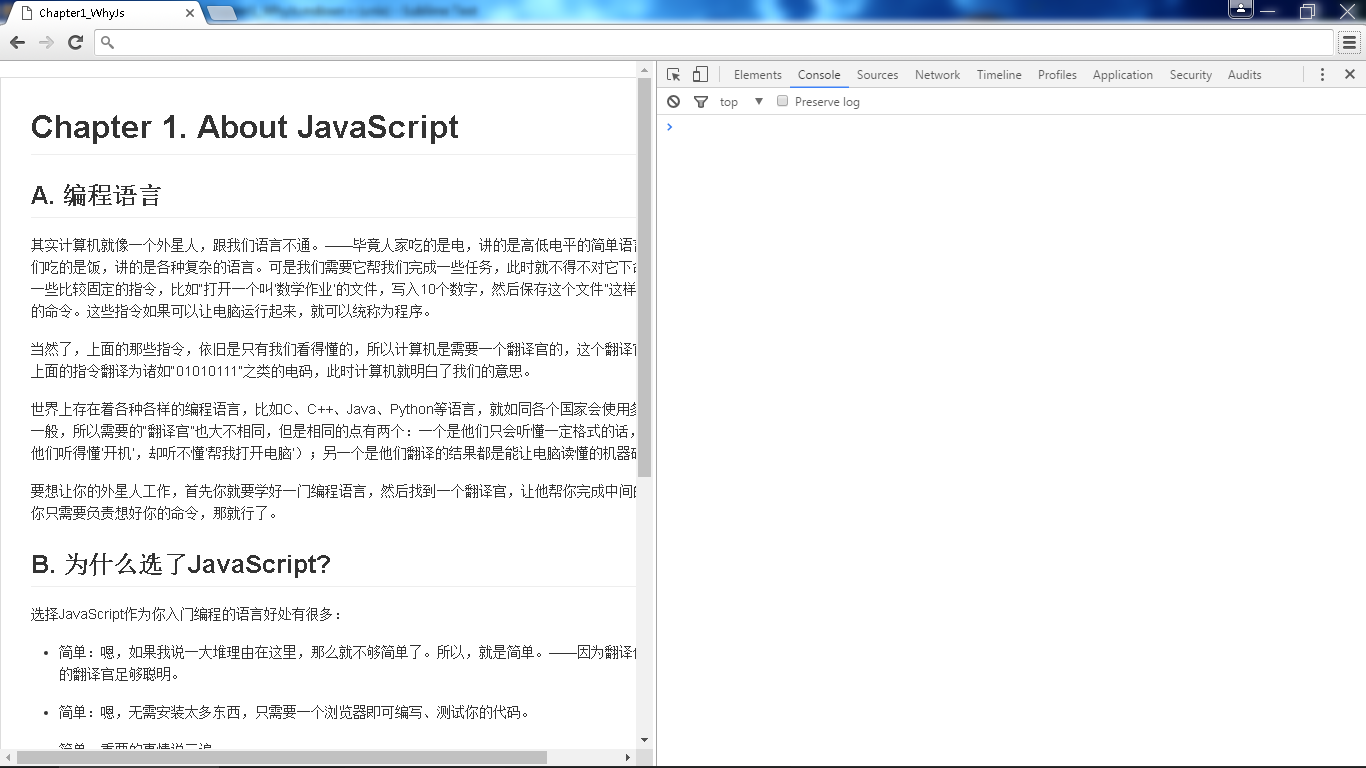
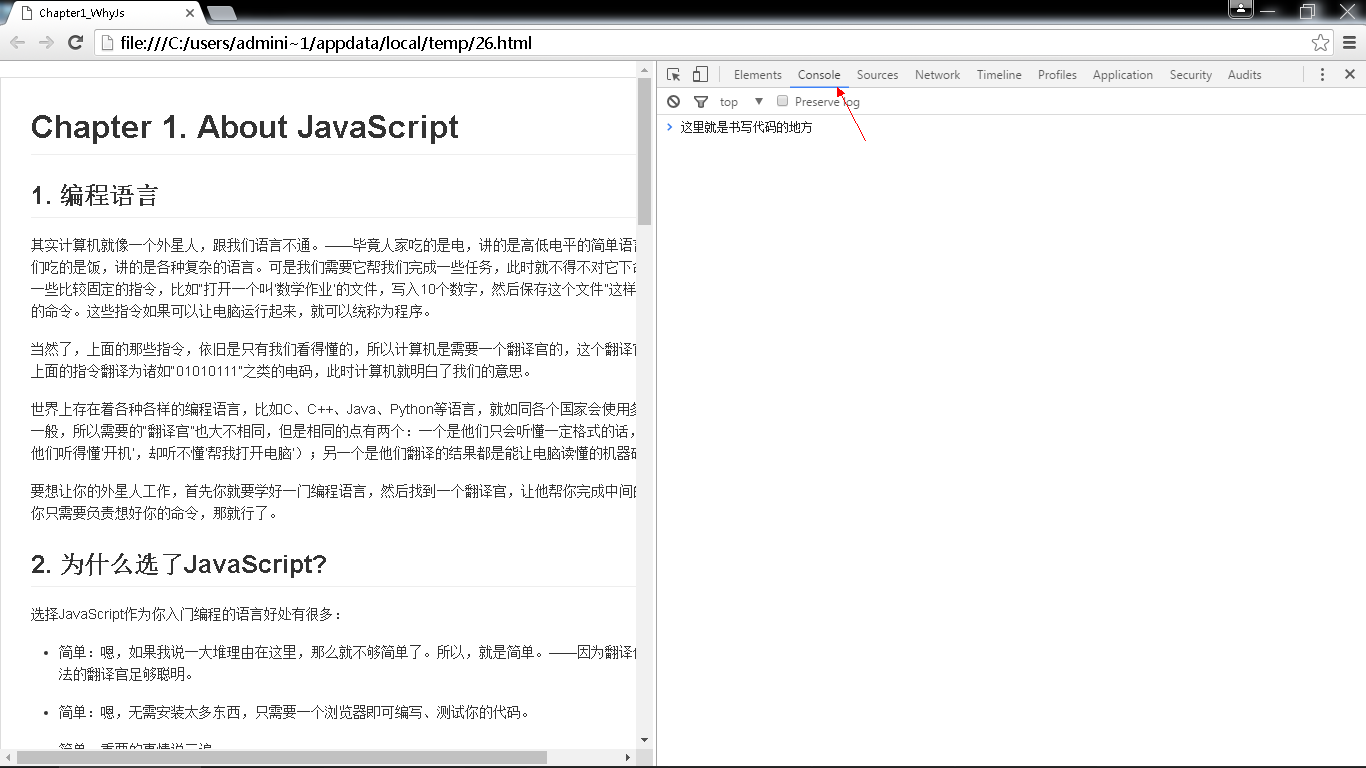
勘误：浏览器表述；加入FireFox的特殊说明

diff --git a/js/Chapter1_WhyJs.md b/js/Chapter1_WhyJs.md
@@ -27,34 +27,39 @@
 
 一台电脑，一个记事本或者其他文本编辑器，一个比较新的浏览器即可。
 
-当然，我更推荐的是Google Chrome为代表的浏览器，如FireFox、Fedora、甚至是套用WebKit换皮的360浏览器，而不是推荐IE。
+当然，我更推荐的是以Google Chrome为代表的浏览器，或者FireFox、Fedora、甚至是套用WebKit换皮的360浏览器，而不是推荐IE。
 
-——因为前者的功能更加完善，而且能智能地补全代码，识别错误；而后者需要靠肉眼看，脑补结果，用玄学占卜找到错误。
+——因为第三方的浏览器功能更加完善，而且能智能地补全代码，识别错误；而IE需要靠肉眼看，脑补结果，用玄学占卜找到错误。
 
 
 *ps:后期遇到较长的代码时，我建议是找一个靠谱的文本编辑器进行编写，比如Sublime Text。*
 
 ##4. 最后，开始了吗？
 
-是的，开始了。点开你的浏览器，然后在菜单中找到“开发者工具”:
+是的，开始了。点开你的浏览器，然后在菜单中找到“开发者工具”，在弹出的界面中找到“控制台”或“Console”选项:
 
+> 以360浏览器为例：
 ![360浏览器的开发者工具](srcImg/open_360_dev.jpg)
-
 
 当然，如果你喜欢快捷键，那么就应该了解一下，不同的浏览器菜单稍有不同，但是快捷键是基本相似的：
 
  - 如果是Chrome之类的浏览器，只需要用快捷键Ctrl+Shift+J即可呼出开发者工具中的控制台，也就是你编写代码的地方。
+ - FireFox对应的快捷键是Ctrl+Shift+K
  - 如果是IE 9.0以后，则按F12即可。但是不推荐这个让人抓狂的浏览器，真的。
 
 不管用什么方式，现在，此时你应该可以看到一个类似这样的界面：
-	
+
+>FireFox 浏览器界面如下：
+![FireFox](srcImg/fireFox_dev_mode.png)
+
+> Chrome 浏览器 界面如下（后续章节无特殊说明，均以该浏览器效果为准）：
 ![Chrome](srcImg/chrome_dev_mode.png)
 
-在弹出的界面中，有很多实用的工具，但是现在我们只需要关注其中的“Console”标签页，如果你不是在该标签页上，请切换一下即可。这里，就是我们目前书写、运行代码的地方。
+在弹出的界面中，有很多实用的工具，但是现在我们只需要关注其中的“Console”（控制台）标签页，如果你不是在该标签页上，请切换一下即可。这里，就是我们目前书写、运行代码的地方。
 
-Congratulations！
+开始我们的第一句代码吧！
 
-你终于可以开始我们的第一句代码了，按照国际惯例，让我们在上面写一句问候语吧：
+你终于可以开始我们的第一句代码了，按照惯例，让我们在上面写一句问候语吧：
 
 ```js
 alert("Welcome to playground!");
